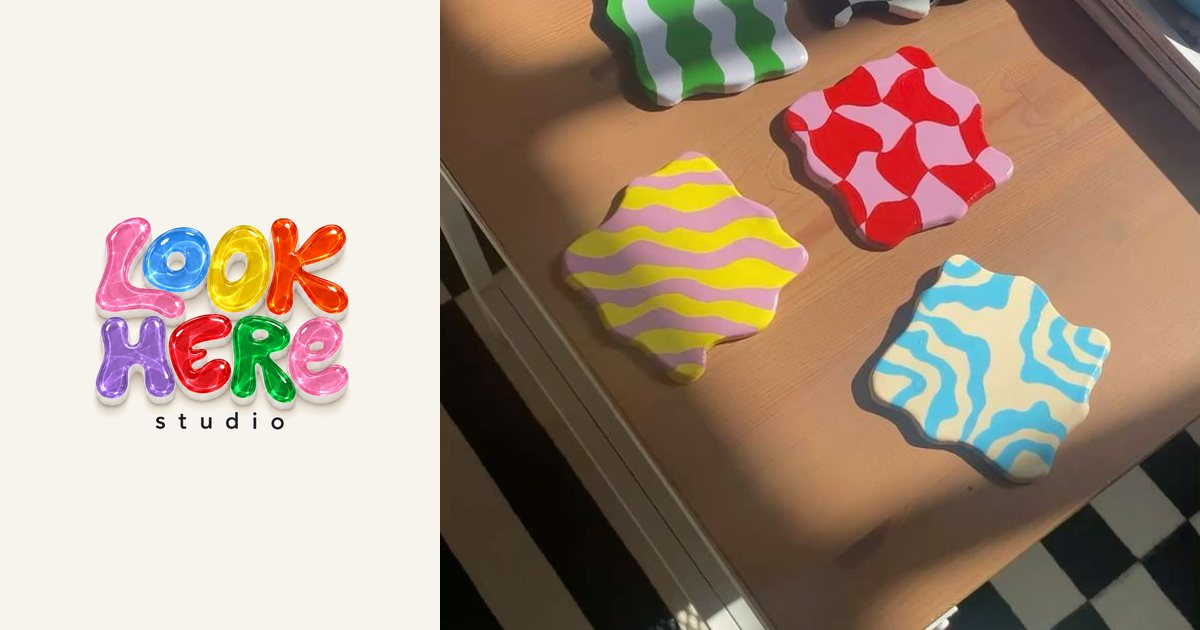
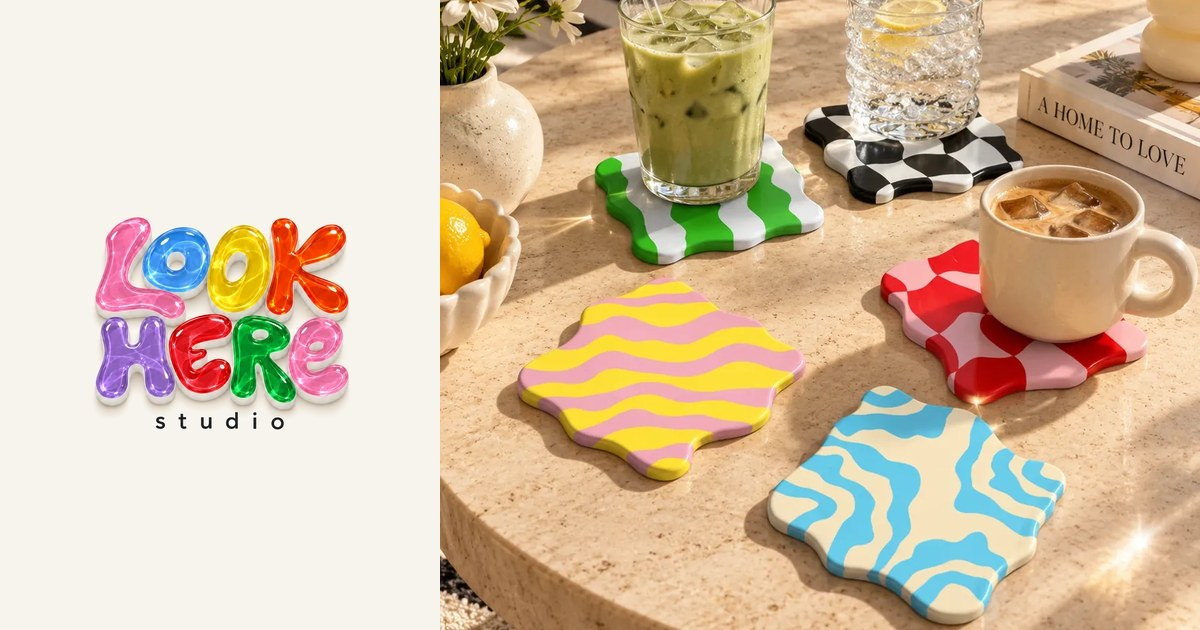
Patterned Coasters: new product + lifestyle photos and share card

diff --git a/data/images.ts b/data/images.ts
@@ -37,6 +37,8 @@ export const IMAGES: Record<string, ImageMeta> = {
   "/objects/well-look-at-you.webp": { alt: "Well, Look At You: oxblood wavy mirror with “well, look at you” lettered around the rim" },
   "/objects/love-more.webp": { alt: "Love More: chunky mirror-gold LOVE MORE letters on a living-room wall" },
   "/objects/love-more-2.webp": { alt: "Love More: mirror-gold LOVE MORE letters above a kitchen counter" },
+  "/objects/patterned-coasters-v2.webp": { alt: "Patterned Coasters: five wavy resin coasters in stripes, checks and ripples on a sunlit coffee table with drinks" },
+  "/lifestyle/patterned-coasters-1.webp": { alt: "Red and pink checked wavy coaster on a green marble bar table under a cocktail" },
   "/objects/patterned-coasters.webp": { alt: "Patterned Coasters: four wavy-edged patterned resin coasters with cork bases" },
   "/objects/x-plus-o.webp": { alt: "X + O: marble-look noughts-and-crosses board with gold Xs and Os, all made in acrylic" },
   "/lifestyle/cat-heart-1.webp": { alt: "Cat Got Your Heart: matte-black steel cat silhouette mid-stretch with a heart cut out, above a sideboard" },

diff --git a/data/products.ts b/data/products.ts
@@ -338,8 +338,9 @@ const objects: Product[] = [
     price: 3200,
     currency: "INR",
     status: "available",
-    images: ["/objects/patterned-coasters.webp"],
-    lifestyleImages: [],
+    images: ["/objects/patterned-coasters-v2.webp"],
+    lifestyleImages: ["/lifestyle/patterned-coasters-1.webp"],
+    imageFit: "cover",
     leadTime: "Made to order · dispatched within 10 working days",
     care: "Hand wash. Cork keeps your table safe.",
     installation: "None. Put a drink on it.",
